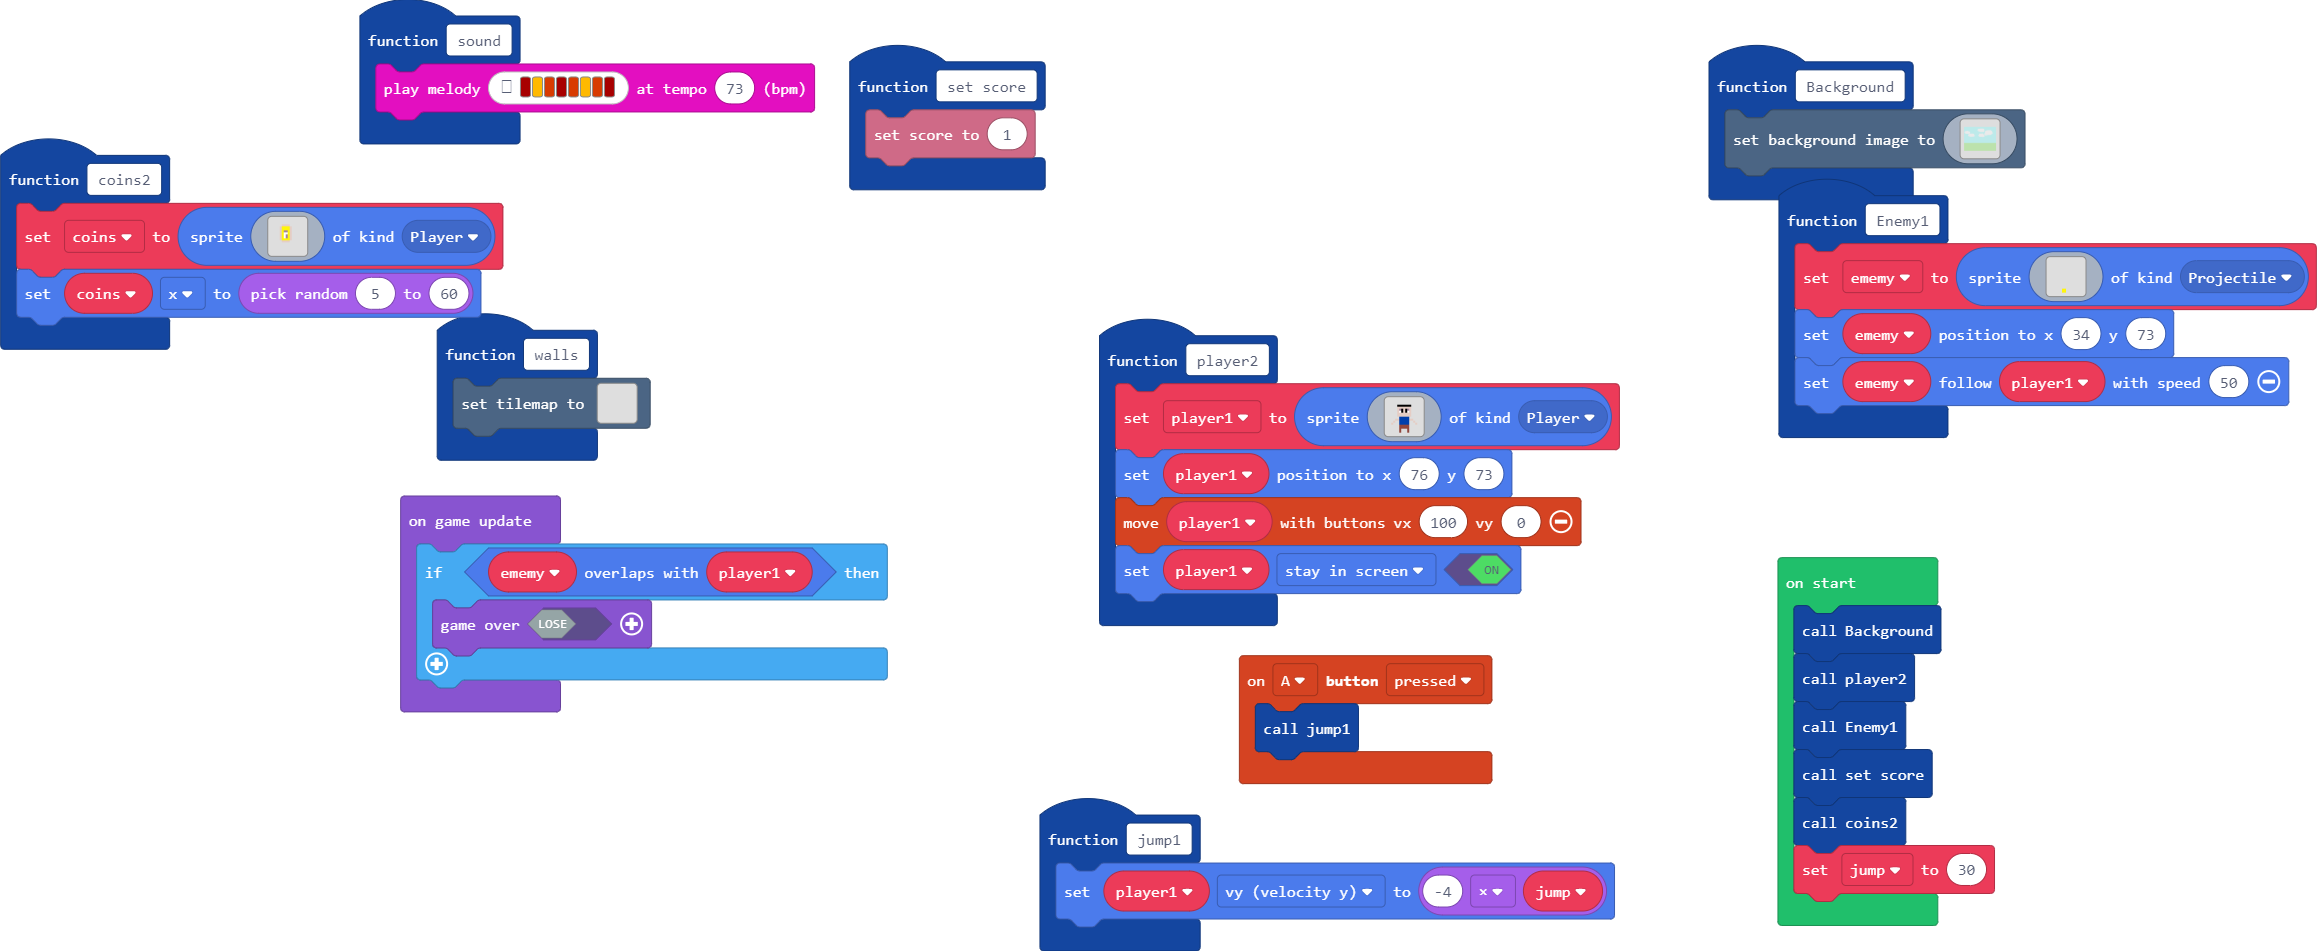
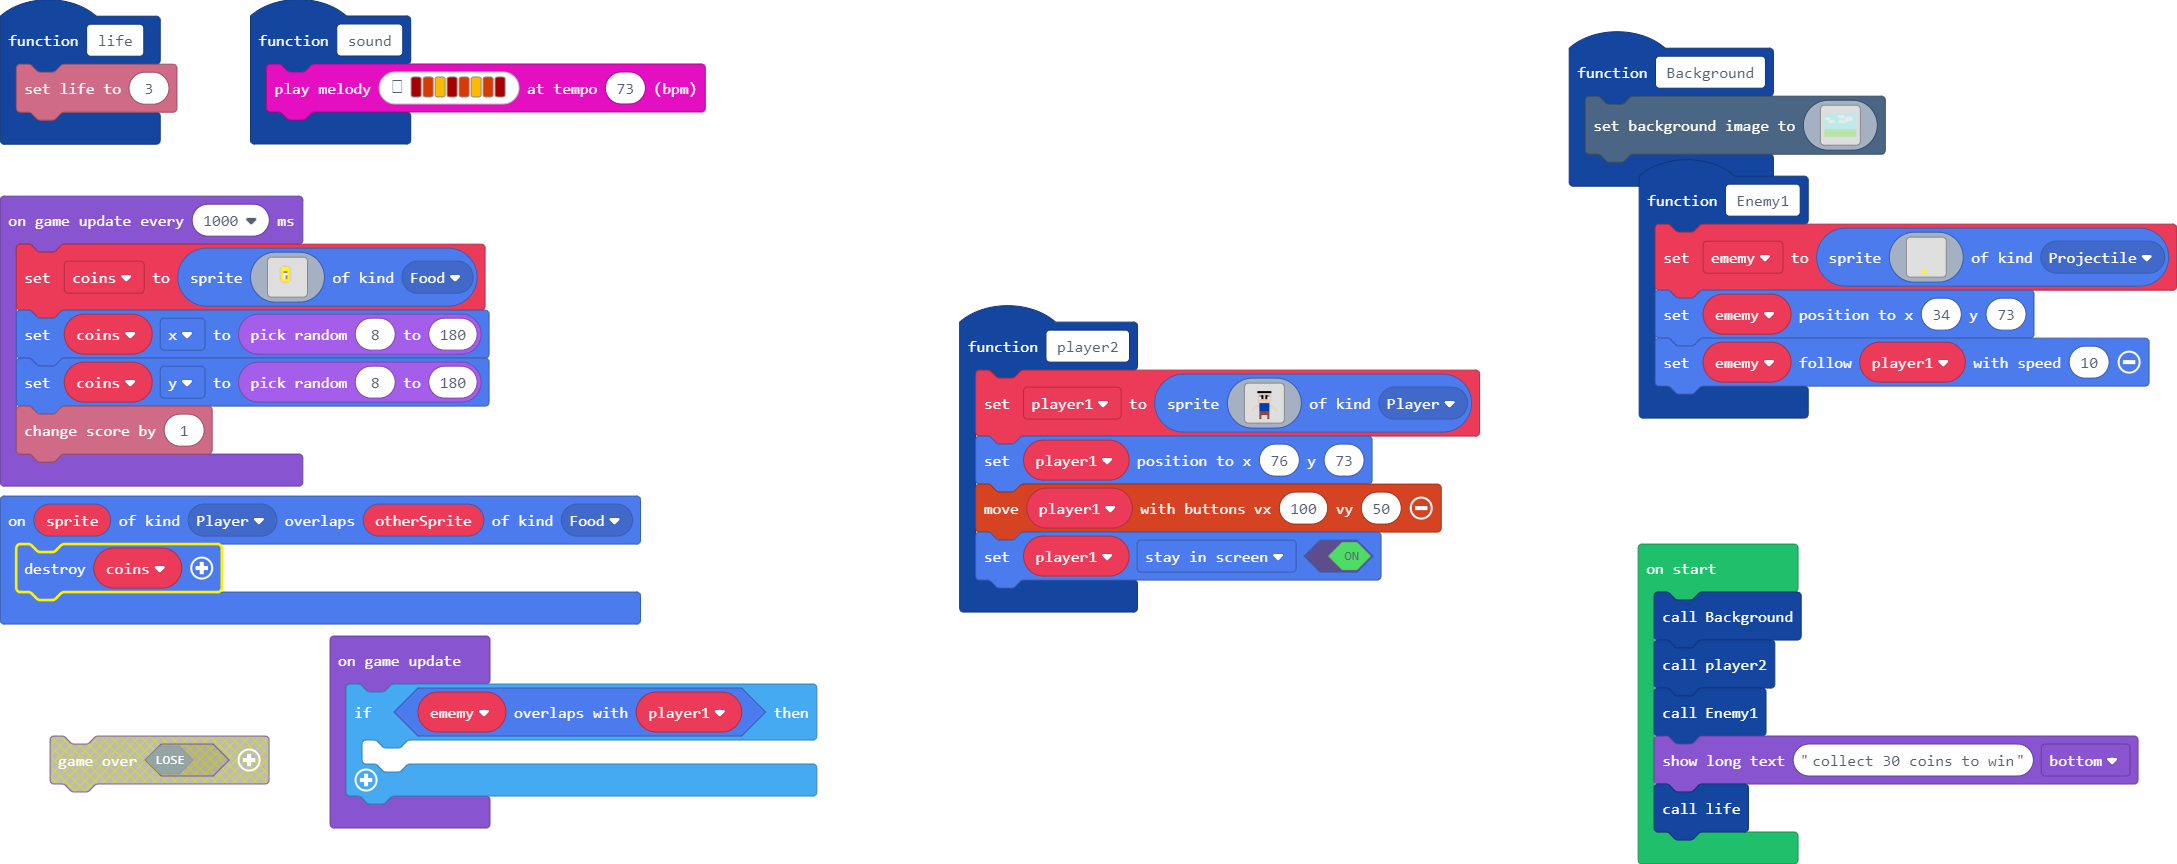
Update main.blocks, main.ts

diff --git a/main.ts b/main.ts
@@ -57,30 +57,6 @@ namespace myTiles {
 . . . . . . . . . . . . . . . . 
 `
 }
-function coins2 () {
-    coins = sprites.create(img`
-. . . . . . . . . . . . . . . . 
-. . . . . . . . . . . . . . . . 
-. . . . . d d d d . . . . . . . 
-. . . . d 5 5 5 5 d . . . . . . 
-. . . . d 5 5 5 5 d . . . . . . 
-. . . . d 5 b b 5 d . . . . . . 
-. . . . d 5 1 1 5 d . . . . . . 
-. . . . d 5 1 b 5 d . . . . . . 
-. . . . d 5 1 b 5 d . . . . . . 
-. . . . d 5 5 5 5 d . . . . . . 
-. . . . . d d d d . . . . . . . 
-. . . . . . . . . . . . . . . . 
-. . . . . . . . . . . . . . . . 
-. . . . . . . . . . . . . . . . 
-. . . . . . . . . . . . . . . . 
-. . . . . . . . . . . . . . . . 
-`, SpriteKind.Player)
-    coins.x = Math.randomRange(5, 60)
-}
-function jump1 () {
-    player1.vy = -4 * jump
-}
 function Enemy1 () {
     ememy = sprites.create(img`
 . . . . . . . . . . . . . . . . 
@@ -101,13 +77,13 @@ function Enemy1 () {
 . . . . . . 5 5 . . . . . . . . 
 `, SpriteKind.Projectile)
     ememy.setPosition(34, 73)
-    ememy.follow(player1, 50)
+    ememy.follow(player1, 10)
 }
-function set_score () {
-    info.setScore(1)
-}
+sprites.onOverlap(SpriteKind.Player, SpriteKind.Food, function (sprite, otherSprite) {
+    coins.destroy()
+})
 function sound () {
-    music.playMelody("C5 A B C5 B A B C5 ", 73)
+    music.playMelody("C5 B A C5 B A B C5 ", 73)
 }
 function Background () {
     scene.setBackgroundImage(img`
@@ -233,34 +209,6 @@ function Background () {
 7 7 7 7 7 7 7 7 7 7 7 7 7 7 7 7 7 7 7 7 7 7 7 7 7 7 7 7 7 7 7 7 7 7 7 7 7 7 7 7 7 7 7 7 7 7 7 7 7 7 7 7 7 7 7 7 7 7 7 7 7 7 7 7 7 7 7 7 7 7 7 7 7 7 7 7 7 7 7 7 7 7 7 7 7 7 7 7 7 7 7 7 7 7 7 7 7 7 7 7 7 7 7 7 7 7 7 7 7 7 7 7 7 7 7 7 7 7 7 7 7 7 7 7 7 7 7 7 7 7 7 7 7 7 7 7 7 7 7 7 7 7 7 7 7 7 7 7 7 7 7 7 7 7 7 7 7 7 7 7 
 `)
 }
-function walls () {
-    tiles.setTilemap(tiles.createTilemap(
-            hex`1000100000000000000000000000000000000000000000000000000000000000000000000000000000000000000000000000000000000000000000000000000000000000000000000000000000000000000000000000000000000000000000000000000000000000000000000000000000000000000000000000000000000000000000000000000000000000000000000000000000000000000000000000000000000000000000000000000000000000000000000000000000000000000000000000000000000000000000000000000000000000000000000000000000000000000000000000000000000000000000000000000000000000000000000000000000000000`,
-            img`
-. . . . . . . . . . . . . . . . 
-. . . . . . . . . . . . . . . . 
-. . . . . . . . . . . . . . . . 
-. . . . . . . . . . . . . . . . 
-. . . . . . . . . . . . . . . . 
-. . . . . . . . . . . . . . . . 
-. . . . . . . . . . . . . . . . 
-. . . . . . . . . . . . . . . . 
-. . . . . . . . . . . . . . . . 
-. . . . . . . . . . . . . . . . 
-. . . . . . . . . . . . . . . . 
-. . . . . . . . . . . . . . . . 
-. . . . . . . . . . . . . . . . 
-. . . . . . . . . . . . . . . . 
-. . . . . . . . . . . . . . . . 
-. . . . . . . . . . . . . . . . 
-`,
-            [myTiles.tile0,myTiles.tile1,myTiles.tile2],
-            TileScale.Sixteen
-        ))
-}
-controller.A.onEvent(ControllerButtonEvent.Pressed, function () {
-    jump1()
-})
 function player2 () {
     player1 = sprites.create(img`
 . . . . . . . . . . . . . 
@@ -281,21 +229,45 @@ d . . . 8 8 8 8 8 . . . d
 . . . . e . . . e . . . . 
 `, SpriteKind.Player)
     player1.setPosition(76, 73)
-    controller.moveSprite(player1, 100, 0)
+    controller.moveSprite(player1, 100, 50)
     player1.setFlag(SpriteFlag.StayInScreen, true)
 }
-let ememy: Sprite = null
-let player1: Sprite = null
+function life () {
+    info.setLife(3)
+}
 let coins: Sprite = null
-let jump = 0
+let player1: Sprite = null
+let ememy: Sprite = null
 Background()
 player2()
 Enemy1()
-set_score()
-coins2()
-jump = 30
+game.showLongText("collect 30 coins to win", DialogLayout.Bottom)
+life()
 game.onUpdate(function () {
     if (ememy.overlapsWith(player1)) {
-        game.over(false)
+    	
     }
+})
+game.onUpdateInterval(1000, function () {
+    coins = sprites.create(img`
+. . . . . . . . . . . . . . . . 
+. . . . . . . . . . . . . . . . 
+. . . . . d d d d . . . . . . . 
+. . . . d 5 5 5 5 d . . . . . . 
+. . . . d 5 5 5 5 d . . . . . . 
+. . . . d 5 b b 5 d . . . . . . 
+. . . . d 5 1 1 5 d . . . . . . 
+. . . . d 5 1 b 5 d . . . . . . 
+. . . . d 5 1 b 5 d . . . . . . 
+. . . . d 5 5 5 5 d . . . . . . 
+. . . . . d d d d . . . . . . . 
+. . . . . . . . . . . . . . . . 
+. . . . . . . . . . . . . . . . 
+. . . . . . . . . . . . . . . . 
+. . . . . . . . . . . . . . . . 
+. . . . . . . . . . . . . . . . 
+`, SpriteKind.Food)
+    coins.x = Math.randomRange(8, 180)
+    coins.y = Math.randomRange(8, 180)
+    info.changeScoreBy(1)
 })
